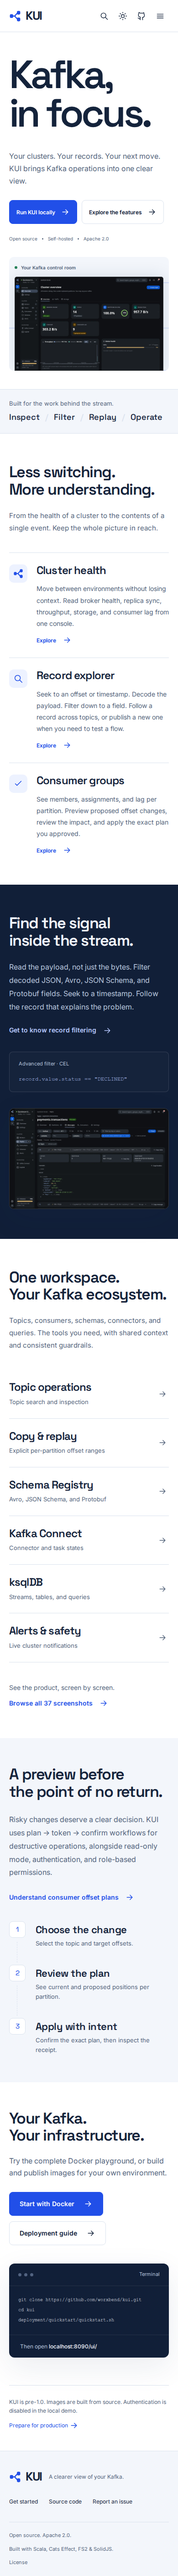
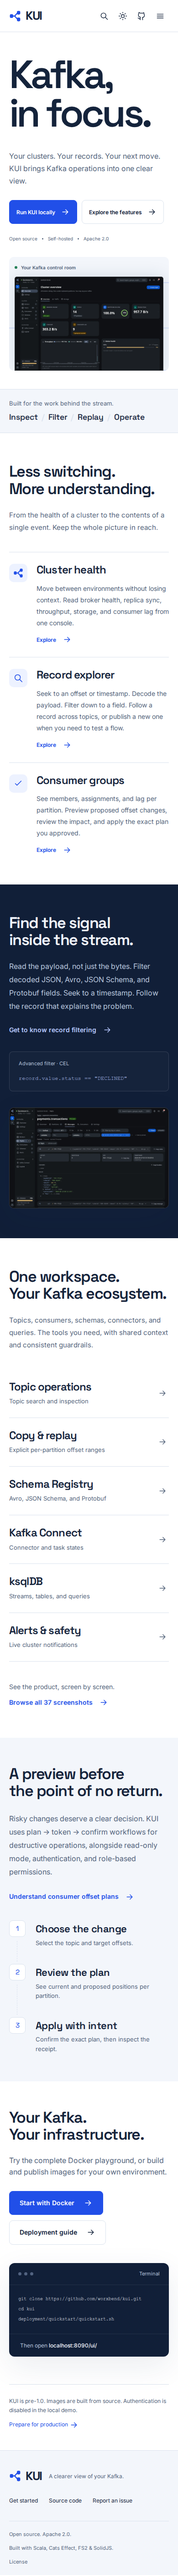
fix(site): keep the feature strip within narrow mobile screens

diff --git a/website/public/styles.css b/website/public/styles.css
@@ -1868,10 +1868,10 @@ dialog::backdrop {
 }
 @media (max-width: 600px) {
   .capability-strip p {
-    font-size: 18px;
-    gap: 12px;
+    font-size: clamp(14px, 4.5vw, 18px);
+    gap: clamp(6px, 2vw, 10px);
   }
   .capability-strip p span {
-    font-size: 18px;
+    font-size: inherit;
   }
 }

diff --git a/website/verification/README.md b/website/verification/README.md
@@ -15,7 +15,9 @@ The KUI application code and integrations were not changed.
   gallery filtering, screenshot enlargement and Escape dismissal, clipboard copying,
   mobile navigation, the mobile guide selector, and reduced motion.
 - Viewports: 1440×1000 desktop, 768×1024 tablet, and 390×844 mobile. No horizontal
-  page overflow in the checked routes. Horizontally scrolling code blocks remain intentional.
+  page overflow in the checked routes. Additional checks at 320, 360, 600, and 1024px
+  passed for the homepage, features, gallery, quickstart, and custom-image guide.
+  Horizontally scrolling code blocks remain intentional.
 - axe-core WCAG 2 A/AA and 2.1 AA checks: zero violations on the homepage, features,
   gallery, quickstart, consumers, production deployment, and metrics guide in both
   light and dark themes. The mobile quickstart also had zero violations.
